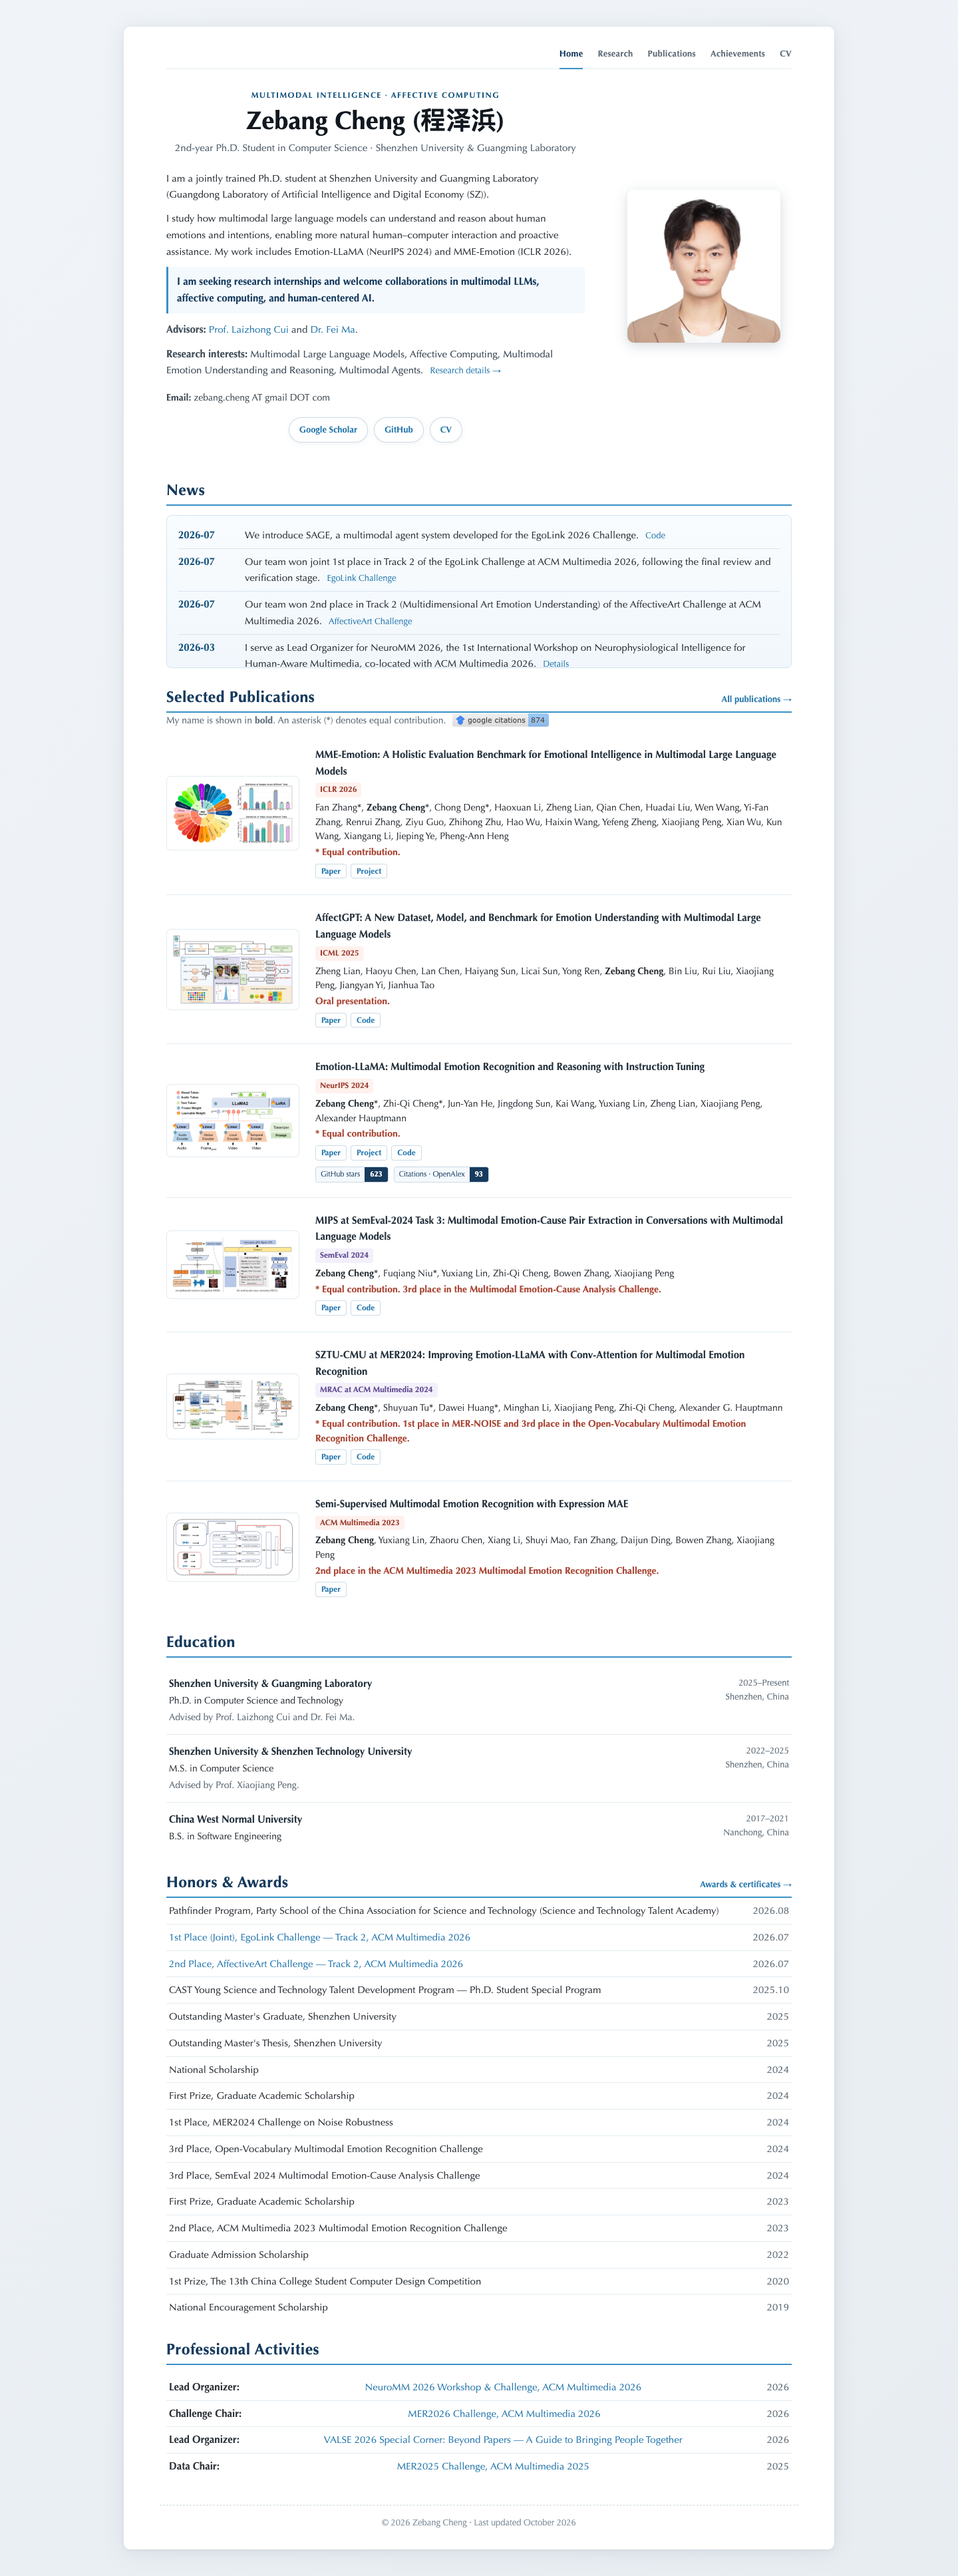
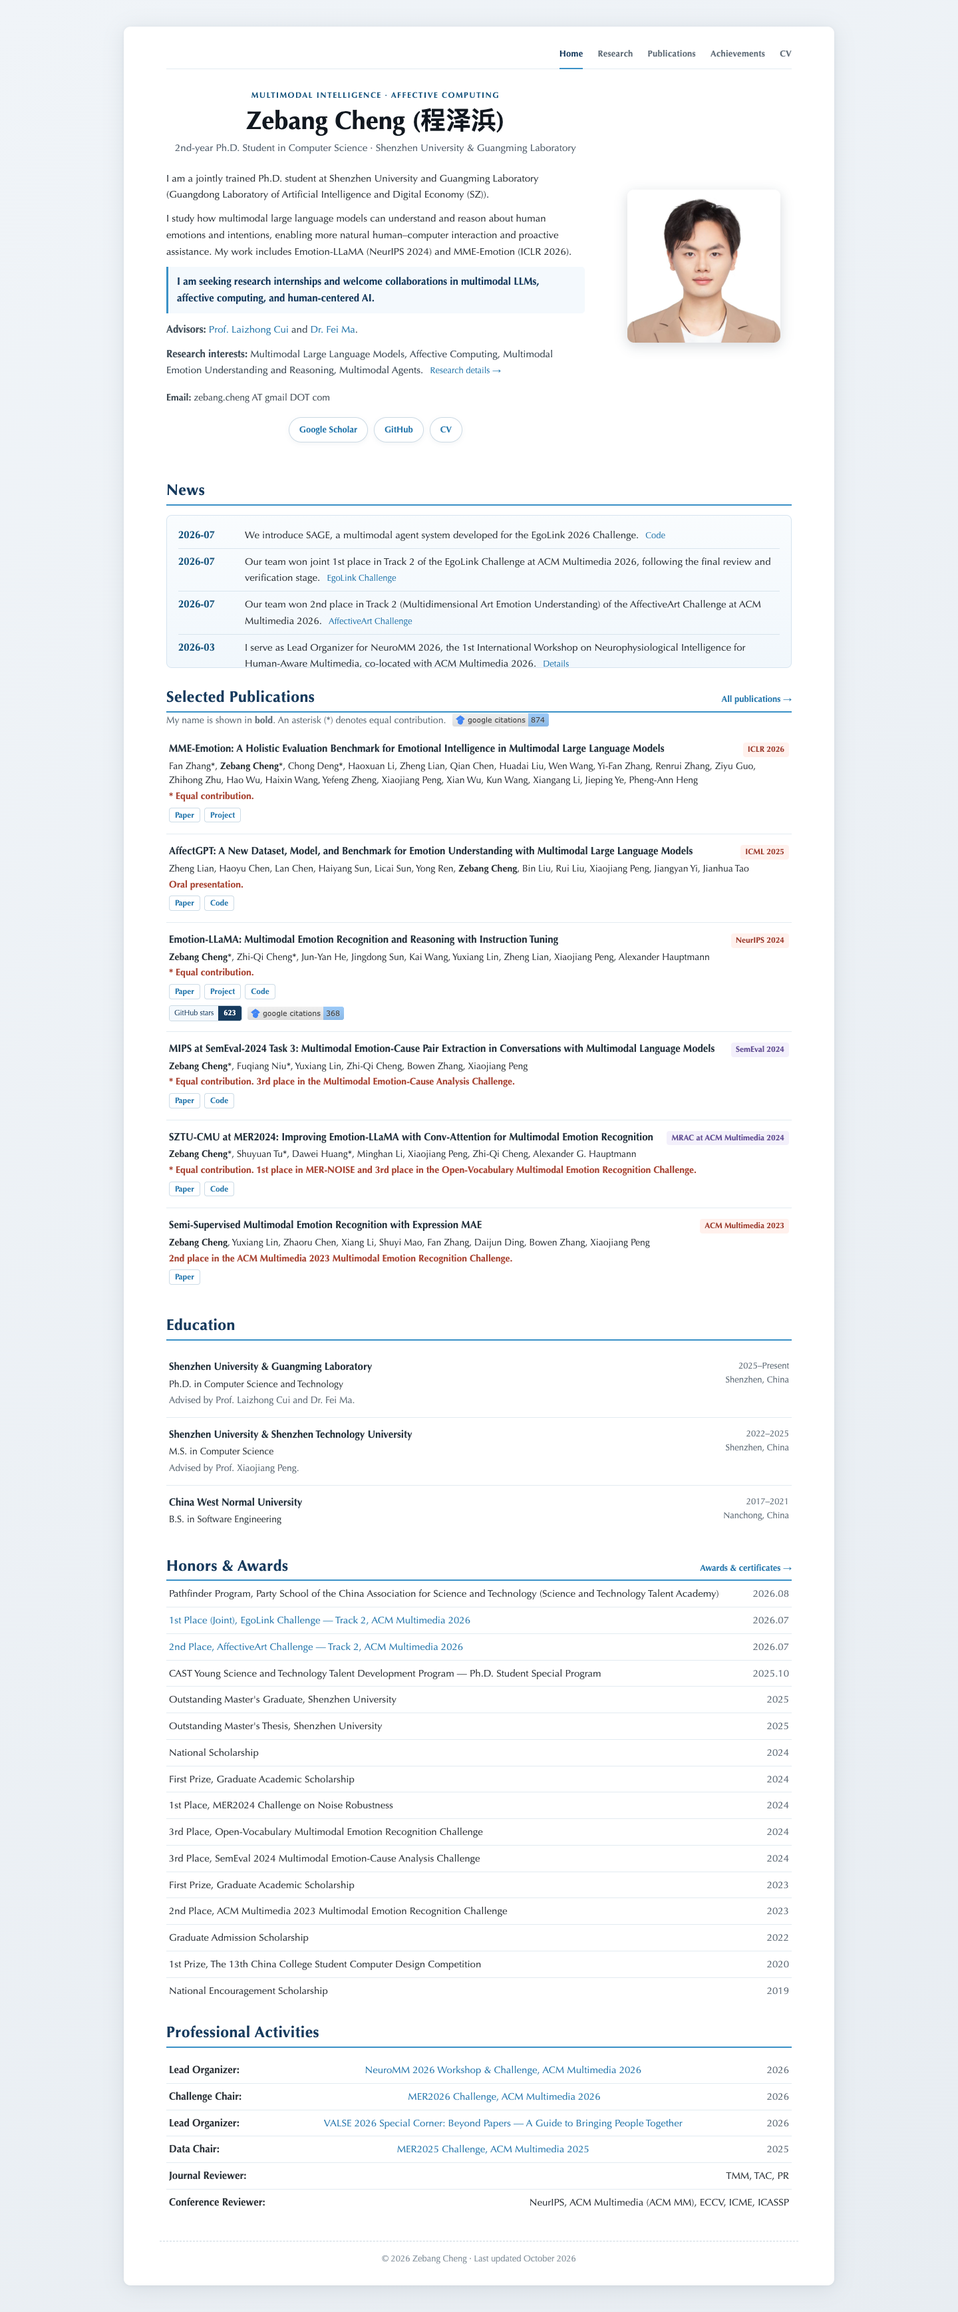
Restore text publication lists and use Google Scholar citations

diff --git a/_includes/publication-list.html b/_includes/publication-list.html
@@ -1,44 +1,42 @@
 <ol class="publication-list">
   {% for publication in include.publications %}
     {% capture highlighted_name %}<strong>{{ site.data.profile.name }}</strong>{% endcapture %}
-    <li class="publication{% if include.show_teasers and publication.teaser %} publication-with-teaser{% endif %}" id="{{ publication.id }}">
-      {% if include.show_teasers and publication.teaser %}
-        {% assign teaser_link = publication.links.project | default: publication.links.paper %}
-        <a class="publication-teaser" href="{% if teaser_link contains '://' %}{{ teaser_link }}{% else %}{{ teaser_link | relative_url }}{% endif %}" aria-label="View {{ publication.short_title | escape }}">
-          <img src="{{ publication.teaser | relative_url }}" alt="{{ publication.teaser_alt | escape }}" width="200" loading="lazy" decoding="async">
-        </a>
-      {% endif %}
-      <div class="publication-content">
-        <div class="publication-heading">
-          <strong class="publication-title">{{ publication.title }}</strong>
-          <span class="venue venue-{{ publication.type | default: 'conference' }}">{{ publication.venue }} {{ publication.year }}</span>
-        </div>
-        <p class="authors">{{ publication.authors | replace: site.data.profile.name, highlighted_name }}</p>
-        {% if publication.note and publication.note != '' %}<p class="publication-note">{{ publication.note }}</p>{% endif %}
-        {% if include.show_summary and publication.summary and publication.summary != '' %}<p class="publication-summary">{{ publication.summary }}</p>{% endif %}
-        {% if publication.links %}
-          <p class="publication-links">
-            {% for link in publication.links %}
-              {% if link[1] and link[1] != '' %}
-                {% if link[1] contains '://' %}
-                  <a href="{{ link[1] }}" target="_blank" rel="noopener noreferrer">{{ link[0] | capitalize }}</a>
-                {% else %}
-                  <a href="{{ link[1] | relative_url }}">{{ link[0] | capitalize }}</a>
-                {% endif %}
-              {% endif %}
-            {% endfor %}
-          </p>
-        {% endif %}
-        {% if publication.metrics %}
-          <div class="publication-metrics" aria-label="{{ publication.short_title | escape }} research impact">
-            {% for metric in publication.metrics %}
-              <a class="publication-metric" href="{{ metric.url }}" target="_blank" rel="noopener noreferrer" title="{{ metric.label | escape }}: {{ metric.value }} as of {{ metric.observed_on }}{% if metric.note %} ({{ metric.note | escape }}){% endif %}" data-metric-url="{{ metric.endpoint | escape }}" data-metric-field="{{ metric.field }}" data-metric-label="{{ metric.label | escape }}" data-metric-note="{{ metric.note | escape }}">
-                <span class="metric-label">{{ metric.label }}</span><span class="metric-value">{{ metric.value }}</span>
-              </a>
-            {% endfor %}
-          </div>
-        {% endif %}
+    <li class="publication" id="{{ publication.id }}">
+      <div class="publication-heading">
+        <strong class="publication-title">{{ publication.title }}</strong>
+        <span class="venue venue-{{ publication.type | default: 'conference' }}">{{ publication.venue }} {{ publication.year }}</span>
       </div>
+      <p class="authors">{{ publication.authors | replace: site.data.profile.name, highlighted_name }}</p>
+      {% if publication.note and publication.note != '' %}<p class="publication-note">{{ publication.note }}</p>{% endif %}
+      {% if include.show_summary and publication.summary and publication.summary != '' %}<p class="publication-summary">{{ publication.summary }}</p>{% endif %}
+      {% if publication.links %}
+        <p class="publication-links">
+          {% for link in publication.links %}
+            {% if link[1] and link[1] != '' %}
+              {% if link[1] contains '://' %}
+                <a href="{{ link[1] }}" target="_blank" rel="noopener noreferrer">{{ link[0] | capitalize }}</a>
+              {% else %}
+                <a href="{{ link[1] | relative_url }}">{{ link[0] | capitalize }}</a>
+              {% endif %}
+            {% endif %}
+          {% endfor %}
+        </p>
+      {% endif %}
+      {% if publication.metrics or publication.google_scholar %}
+        <div class="publication-metrics" aria-label="{{ publication.short_title | escape }} research impact">
+          {% for metric in publication.metrics %}
+            <a class="publication-metric" href="{{ metric.url }}" target="_blank" rel="noopener noreferrer" title="{{ metric.label | escape }}: {{ metric.value }} as of {{ metric.observed_on }}{% if metric.note %} ({{ metric.note | escape }}){% endif %}" data-metric-url="{{ metric.endpoint | escape }}" data-metric-field="{{ metric.field }}" data-metric-label="{{ metric.label | escape }}" data-metric-note="{{ metric.note | escape }}">
+              <span class="metric-label">{{ metric.label }}</span><span class="metric-value">{{ metric.value }}</span>
+            </a>
+          {% endfor %}
+          {% if publication.google_scholar %}
+            {% capture scholar_pattern %}cites={{ publication.google_scholar.cites_id }}[^"]*"[^>]*>Cited by ([0-9,]+)</a>{% endcapture %}
+            {% capture scholar_link %}https://scholar.google.com/scholar?oi=bibs&hl=en&cites={{ publication.google_scholar.cites_id }}&as_sdt=5{% endcapture %}
+            {% capture scholar_alt %}Google Scholar citations for {{ publication.short_title }}{% endcapture %}
+            {% include scholar-badge.html source_url=publication.google_scholar.source_url pattern=scholar_pattern link_url=scholar_link alt=scholar_alt %}
+          {% endif %}
+        </div>
+      {% endif %}
     </li>
   {% endfor %}
 </ol>

diff --git a/_includes/publications.html b/_includes/publications.html
@@ -7,10 +7,10 @@
   </div>
   <p class="section-lead publication-intro">
     <span>My name is shown in <strong>bold</strong>. An asterisk (*) denotes equal contribution.</span>
-    <a class="scholar-badge-link" href="{{ site.data.profile.links.google_scholar }}" target="_blank" rel="noopener noreferrer" aria-label="View Google Scholar citation count">
-      <img class="scholar-badge" src="https://img.shields.io/badge/dynamic/regex?url=https%3A%2F%2Fscholar.google.com%2Fcitations%3Fuser%3D{{ site.data.profile.google_scholar_id }}%26hl%3Den&amp;search=%3Ctd+class%3D%22gsc_rsb_std%22%3E%28%5B%5E%3C%5D%2B%29%3C%2Ftd%3E&amp;replace=%241&amp;logo=Google%20Scholar&amp;labelColor=f6f6f6&amp;color=9cf&amp;style=flat&amp;label=google%20citations&amp;cacheSeconds=3600" alt="Live Google Scholar citation count" loading="lazy">
-    </a>
+    {% capture scholar_source %}https://scholar.google.com/citations?user={{ site.data.profile.google_scholar_id }}&hl=en{% endcapture %}
+    {% assign scholar_pattern = '<td class="gsc_rsb_std">([^<]+)</td>' %}
+    {% include scholar-badge.html source_url=scholar_source pattern=scholar_pattern link_url=site.data.profile.links.google_scholar alt="Live Google Scholar citation count" %}
   </p>
-  {% include publication-list.html publications=selected_publications show_teasers=true %}
+  {% include publication-list.html publications=selected_publications %}
 </section>
 {% endif %}

diff --git a/assets/css/main.css b/assets/css/main.css
@@ -368,47 +368,10 @@ h2 {
   border-bottom: 0;
 }
 
-.publication-with-teaser {
-  display: grid;
-  grid-template-columns: 200px minmax(0, 1fr);
-  gap: 24px;
-  align-items: center;
-  padding: 22px 0;
-}
-
-.publication-content {
-  min-width: 0;
-}
-
-.publication-teaser {
-  display: block;
-  padding: 8px;
-  border: 1px solid var(--line);
-  border-radius: 7px;
-  background: #fff;
-}
-
-.publication-teaser img {
-  display: block;
-  width: 100%;
-  height: auto;
-  max-height: 175px;
-  object-fit: contain;
-}
-
-.publication-with-teaser .publication-heading {
-  display: block;
-}
-
-.publication-with-teaser .venue {
-  display: table;
-  margin: 5px 0;
-  white-space: normal;
-}
-
 .publication-metrics {
   display: flex;
   flex-wrap: wrap;
+  align-items: center;
   gap: 8px;
   margin-top: 9px;
 }
@@ -931,11 +894,6 @@ html.certificate-viewer-open {
     display: block;
   }
 
-  .publication-with-teaser {
-    grid-template-columns: 160px minmax(0, 1fr);
-    gap: 20px;
-  }
-
   .venue {
     display: table;
     margin-top: 5px;
@@ -967,15 +925,6 @@ html.certificate-viewer-open {
 }
 
 @media (max-width: 480px) {
-  .publication-with-teaser {
-    grid-template-columns: minmax(0, 1fr);
-    gap: 12px;
-  }
-
-  .publication-teaser {
-    width: min(100%, 220px);
-  }
-
   .site-shell {
     padding-right: 17px;
     padding-left: 17px;

diff --git a/_includes/scholar-badge.html b/_includes/scholar-badge.html
@@ -1,0 +1,3 @@
+<a class="scholar-badge-link" href="{{ include.link_url | escape }}" target="_blank" rel="noopener noreferrer" aria-label="{{ include.alt | escape }}">
+  <img class="scholar-badge" src="https://img.shields.io/badge/dynamic/regex?url={{ include.source_url | url_encode }}&amp;search={{ include.pattern | url_encode }}&amp;replace=%241&amp;logo=Google%20Scholar&amp;labelColor=f6f6f6&amp;color=9cf&amp;style=flat&amp;label=google%20citations&amp;cacheSeconds=3600" alt="{{ include.alt | escape }}" loading="lazy">
+</a>

diff --git a/scripts/validate_content.rb b/scripts/validate_content.rb
@@ -78,12 +78,11 @@ publications.each_with_index do |publication, index|
   raise "#{context} links must contain at least one link" unless links.is_a?(Hash) && links.values.any? { |value| value && value != "" }
   links.each { |label, value| validate_link(value, "#{context} link #{label}") }
 
-  if publication["selected"] || publication["teaser"]
-    require_keys(publication, %w[teaser teaser_alt teaser_source], context)
-    teaser = publication["teaser"]
-    raise "#{context} teaser must use an absolute site path" unless teaser.start_with?("/")
-    raise "#{context} teaser file does not exist: #{teaser}" unless File.file?(File.join(ROOT, teaser.delete_prefix("/")))
-    validate_link(publication["teaser_source"], "#{context} teaser source")
+  if publication["google_scholar"]
+    scholar = publication["google_scholar"]
+    require_keys(scholar, %w[source_url cites_id], "#{context} Google Scholar")
+    validate_link(scholar["source_url"], "#{context} Google Scholar source")
+    raise "#{context} Google Scholar cites_id must be a numeric string" unless scholar["cites_id"].is_a?(String) && scholar["cites_id"].match?(/\A\d+\z/)
   end
 
   (publication["metrics"] || []).each do |metric|

diff --git a/README.md b/README.md
@@ -16,7 +16,7 @@ This repository powers [zebangcheng.github.io](https://zebangcheng.github.io/). 
 
 Entries are displayed in file order. Put the newest entries first and set `selected: true` for publications that should appear on the homepage. The Research page references papers by their stable publication `id`, so an ID should not be changed after it is published.
 
-The homepage citation badge reads the live Google Scholar total using `google_scholar_id` from `_data/profile.yml`. Shields.io caches the result for one hour to keep the page fast and avoid direct browser scraping.
+The homepage citation badge reads the live Google Scholar total using `google_scholar_id` from `_data/profile.yml`. Paper-specific citation badges use the same shared Shields.io dynamic-regex component, with a paper's English Google Scholar `source_url` and `cites_id` under `google_scholar` in `_data/publications.yml`. The paper badge extracts that article's "Cited by" count and links to its citing articles. Shields.io caches results for one hour; counts are fetched by Shields.io rather than scraped in the visitor's browser.
 
 The 1280-pixel portrait is `assets/img/zebang-cheng-portrait.jpg`; its path and dimensions are set in `_data/profile.yml` for social sharing. The homepage uses CSS to frame the face while preserving the original image. Existing favicons use a close-up of the same photo. When choosing a different portrait, update the photo dimensions, adjust its CSS framing, and regenerate `favicon.ico`, `assets/img/favicon-32x32.png`, and `assets/img/apple-touch-icon.png`.
 
@@ -41,9 +41,9 @@ The 1280-pixel portrait is `assets/img/zebang-cheng-portrait.jpg`; its path and 
 
 Leave an unavailable link out instead of adding a placeholder. The template automatically emphasizes `Zebang Cheng` in author lists.
 
-Selected publications also require `teaser`, `teaser_alt`, and `teaser_source`. Store optimized WebP figures under `assets/img/publications/`; use figures from the paper or its official project, preserve their proportions, and record the source. The homepage displays figures beside the text on desktop and above it on narrow phones. Current PDF extracts are AffectGPT Figure 2, MER2024 Figure 2, and Expression MAE Figure 1; the other figures come from their project assets.
+Publications use a text-only list with title, venue, authors, notes, and resource links.
 
-Optional `metrics` provide a source link, API endpoint and count field, plus a verified `value` and `observed_on` date as an offline fallback. The browser refreshes counts and caches successful responses for six hours. Emotion-LLaMA uses GitHub stars and OpenAlex's **NeurIPS 2024 published record** (`W4415795657`); the separate arXiv record is not added, to avoid double-counting. OpenAlex counts can differ from Google Scholar. Update fallback counts and dates together when refreshing this data.
+Optional `metrics` provide a source link, API endpoint and count field, plus a verified `value` and `observed_on` date as an offline fallback. Emotion-LLaMA uses this for GitHub stars; the browser refreshes counts and caches successful responses for six hours. Update fallback counts and dates together when refreshing this data. Its citation badge uses Google Scholar, independently of the GitHub metric cache.
 
 `image-source/` is a local staging folder for replacement portraits, excluded from Git and the published site. Add only the chosen web-ready portrait to `assets/img/`.
 
